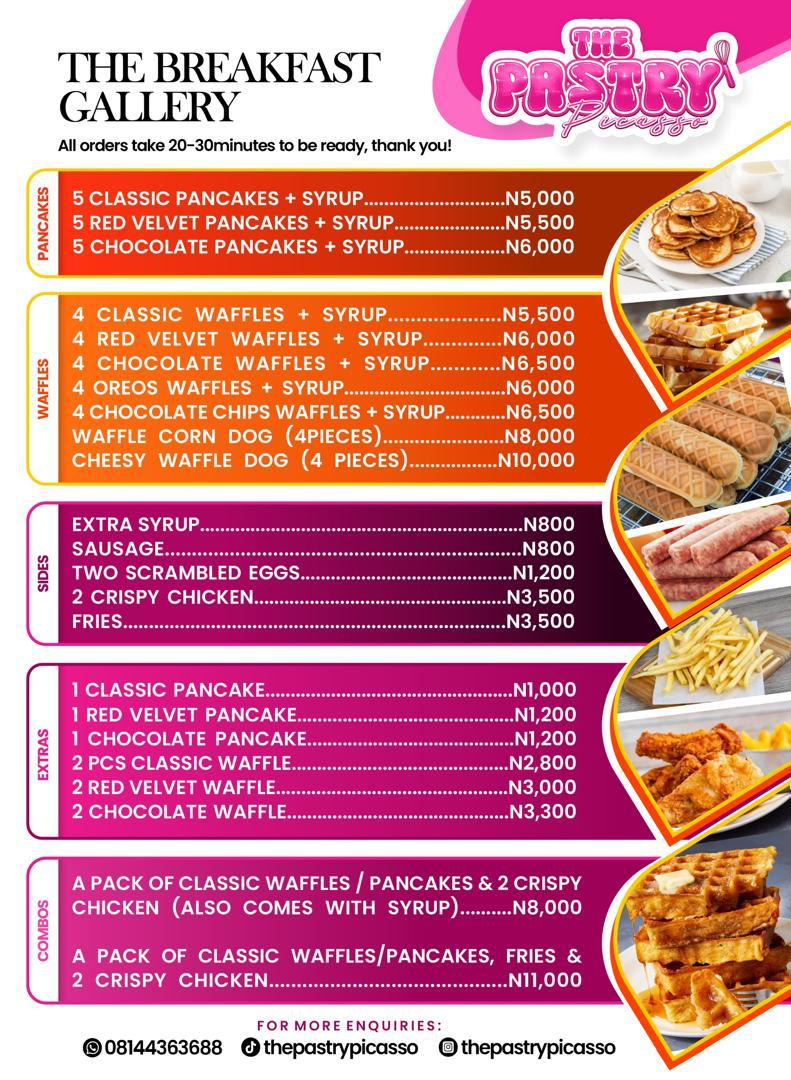
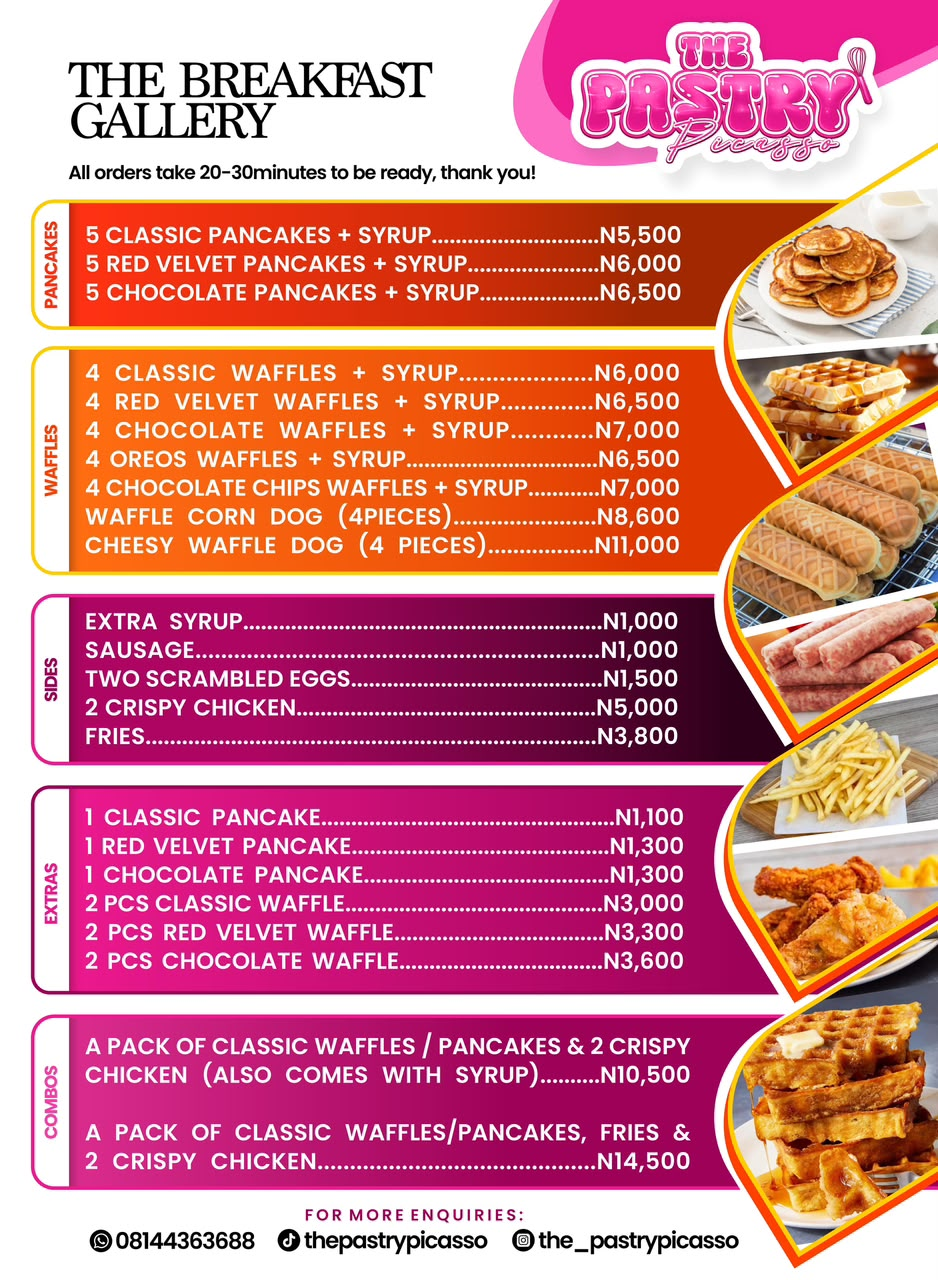
feat: update menu categories and add corresponding category images

diff --git a/index.html b/index.html
@@ -26,7 +26,8 @@
   <meta name="viewport" content="width=device-width, initial-scale=1.0">
   <title>Pastry Picasso — Digital Menu</title>
   <meta name="description"
-    content="Pastry Picasso - We paint with ingredients and you taste the art. Explore our menu featuring Breakfast, Fried Small Chops, Shawarma and Loaded Fries, Drinks, Burger, and Grills.">
+  content="Pastry Picasso - We paint with ingredients and you taste the art. Explore our menu featuring Breakfast,
+  Banana Bread & Pastries, Loaded Fries, Shawarma & Breadwarma, Small Chops, and Drinks.">
 
   <!-- Google Fonts: Plus Jakarta Sans -->
   <link rel="preconnect" href="https://fonts.googleapis.com">
@@ -489,7 +490,7 @@
   <div class="sticky-wrapper">
     <div class="container">
       <nav id="category-pills" class="category-scroll-container" aria-label="Menu categories">
-        <!-- Rendered dynamically via JS: Breakfast, Fried Small Chops, Shawarma and Loaded Fries, Drinks, Burger, Grills -->
+        <!-- Rendered dynamically via JS: Breakfast, Banana Bread & Pastries, Loaded Fries, Shawarma & Breadwarma, Small Chops, Drinks -->
       </nav>
     </div>
   </div>
@@ -566,18 +567,32 @@
         description: "Morning platters, pancakes, waffles, combos, and fresh breakfast favorites"
       },
       {
-        id: "fried-small-chops",
-        name: "Fried Small Chops",
-        icon: "🥟",
-        image: "images/Fried Small Chops.jpeg",
-        description: "Crispy samosas, spring rolls, puff puff, plantain mosa, and party platters"
+        id: "banana-bread-and-pastries",
+        name: "Banana Bread & Pastries",
+        icon: "🥐",
+        image: "images/Banana Bread & Pastries.jpeg",
+        description: "Freshly baked banana bread varieties, meat pies, chicken pies, scotch eggs, and doughnuts"
       },
       {
-        id: "shawarma-and-loaded-fries",
-        name: "Shawarma and Loaded Fries",
+        id: "loaded-fries",
+        name: "Loaded Fries",
+        icon: "🍟",
+        image: "images/Loaded Fries.jpeg",
+        description: "Crispy chicken & beef loaded fries, cheesy loaded plantain fries, classic and jumbo bowls"
+      },
+      {
+        id: "shawarma-and-breadwarma",
+        name: "Shawarma & Breadwarma",
         icon: "🌯",
-        image: "images/Shawarma and Loaded Fries.jpeg",
-        description: "Juicy chicken & beef shawarma wraps, jumbo loaded fries, and cheesy specials"
+        image: "images/Shawarma & Breadwarma.jpeg",
+        description: "Chicken, beef, turkey & spicy suya shawarma wraps and jumbo breadwarma specials"
+      },
+      {
+        id: "small-chops",
+        name: "Small Chops",
+        icon: "🥟",
+        image: "images/Small Chops.jpeg",
+        description: "Single party packs, platters, samosas, spring rolls, puff puff, corn dogs, and extras"
       },
       {
         id: "drinks",
@@ -585,20 +600,6 @@
         icon: "🍹",
         image: "images/Drinks.jpeg",
         description: "Bubble tea, milkshakes, cocktails, mocktails, and fresh yogurt drinks"
-      },
-      {
-        id: "burger",
-        name: "Burger",
-        icon: "🍔",
-        image: "images/Burger.jpeg",
-        description: "Classic Picasso burgers, deluxe burgers, waffle burgers, and combos"
-      },
-      {
-        id: "grills",
-        name: "Grills",
-        icon: "🔥",
-        image: "images/Grills.jpeg",
-        description: "Sizzling BBQ chicken, turkey, grilled croaker fish, and grill platters"
       }
     ];
 
